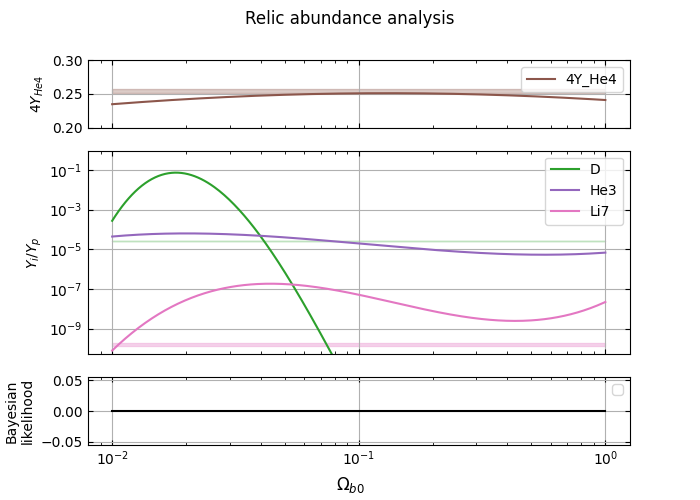
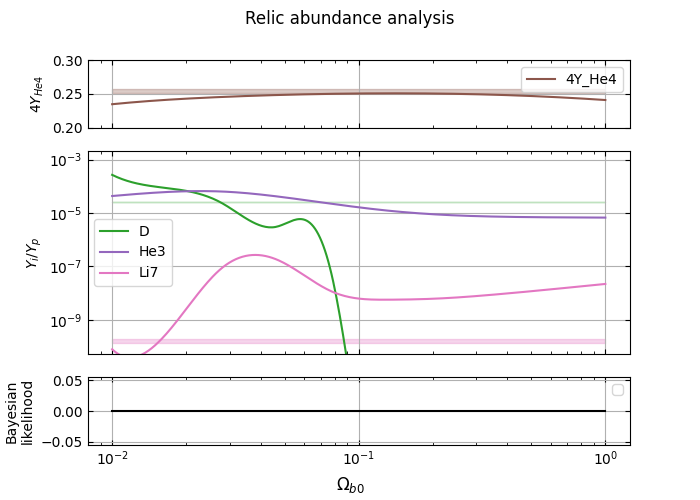
changed interpolation from logspace base 10 to base e

diff --git a/Projects/Project 2/problem_scripts/problem_j.py b/Projects/Project 2/problem_scripts/problem_j.py
@@ -19,12 +19,8 @@ if __name__ == "__main__":
     # Variables
     T_i = 1e11  # initial temperature [K]
     T_f = 1e7  # final temperature [K]
-    n = 4  # number of points for Omega_b0 before interpolation TODO: RAISE
-    Omega_b0_min = 1e-2  # minimum value for Omega_b0
-    Omega_b0_max = 1  # maximum value for Omega_b0
+    Omega_b0_vals = np.logspace(-2, 0, 10)  # Omega_b0 values to test
     filename = FIG_DIR / "j_relic_abundances.png"
-
-    Omega_b0_vals = np.logspace(np.log10(Omega_b0_min), np.log10(Omega_b0_max), n)
 
     # Plot relic abundances
     BBN.plot_relic_abundances_Omegab0(T_i, T_f, Omega_b0_vals, filename=filename)
